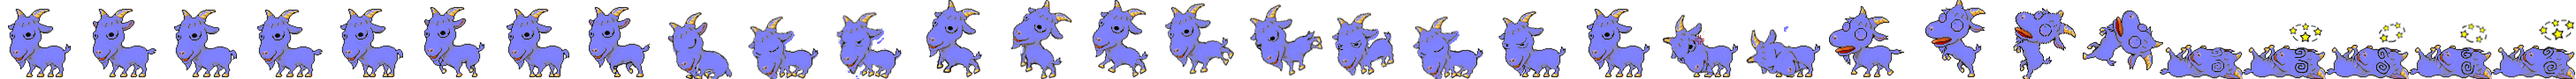
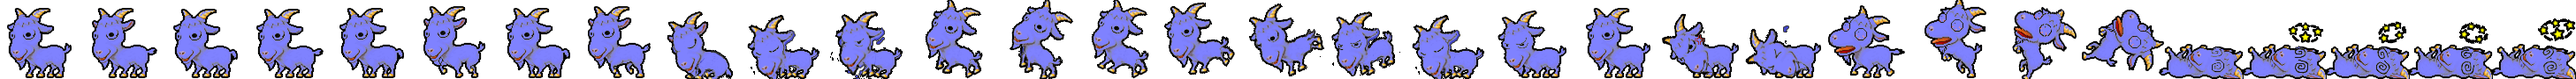
Added outline to red and blue goats to make them pop out more. Added a different animated crown.

diff --git a/js/goat.js b/js/goat.js
@@ -119,7 +119,7 @@ function Goat(game, playerNumber, controls, sprite) {
     this.leftStunnedAnimation = new Animation(leftAsset, 2538, 0, 94, 90, 0.1, 4, true, false);
     this.rightStunnedAnimation = new Animation(rightAsset, 2538, 0, 94, 90, 0.1, 4, true, false);
 
-    this.crownAnimation = new Animation(ASSET_MANAGER.getAsset("./img/smallest-king-crown.png"), 0, 0, 40, 32, 0.1, 1, true, false);
+    this.crownAnimation = new Animation(ASSET_MANAGER.getAsset("./img/simple-crown-animated.png"), 0, 0, 40, 40, 0.1, 10, true, false);
     this.chargingAnimation = new Animation(ASSET_MANAGER.getAsset("./img/auras.png"), -15, 125, 97, 100, 0.1, 7, true, false);
     this.attackAuraLeftAnimation = new Animation(ASSET_MANAGER.getAsset("./img/"+ this.sprite + "-attackAuraLeft.png"), 3, 0, 44, 150, .1, 4, true, false);
     this.attackAuraRightAnimation = new Animation(ASSET_MANAGER.getAsset("./img/"+ this.sprite + "-attackAuraRight.png"), 16, 0, 43, 150, .1, 4, true, true);
@@ -563,8 +563,8 @@ Goat.prototype.update = function () {
      *              Scoring                 *
      ****************************************/
     // Just to place a crown manually on top of player 1's goat.
-    // if (this.playerNumber === 0)
-    //     this.king = this.game.kKey;
+     if (this.playerNumber === 0)
+         this.king = this.game.kKey;
 
     // Increments goat's score count:
     if (this.entity && this.entity.isHill && !isMounted(this, this.game.goats)) {
@@ -594,15 +594,6 @@ Goat.prototype.update = function () {
 ;
 
 Goat.prototype.draw = function (ctx) {
-    // For drawing CROWN:
-    if (this.king) {
-        if (this.right) { // drawn crown above right-turned head
-            this.crownAnimation.drawFrame(this.game.clockTick, ctx, this.x + this.scale * 42, this.y - this.scale * 20, this.scale);
-        } else { // draw crown above left-turned head
-            this.crownAnimation.drawFrame(this.game.clockTick, ctx, this.x + this.scale * 13, this.y - this.scale * 20, this.scale);
-        }
-    }
-
 
     if (this.attacking) {
         if (this.right) {
@@ -655,6 +646,15 @@ Goat.prototype.draw = function (ctx) {
             this.chargingAnimation.drawFrame(this.game.clockTick, ctx, this.x - 1, this.y - 20, this.scale + .2);
         else
             this.chargingAnimation.drawFrame(this.game.clockTick, ctx, this.x - 12, this.y - 20, this.scale + .2);
+    }
+
+    // For drawing CROWN:
+    if (this.king) {
+        if (this.right) { // drawn crown above right-turned head
+            this.crownAnimation.drawFrame(this.game.clockTick, ctx, this.x + this.scale * 44, this.y - this.scale * 30, this.scale);
+        } else { // draw crown above left-turned head
+            this.crownAnimation.drawFrame(this.game.clockTick, ctx, this.x + this.scale * 13, this.y - this.scale * 30, this.scale);
+        }
     }
     
     ctx.strokeStyle = "rgb(255, 0, 0)";

diff --git a/js/main.js b/js/main.js
@@ -20,6 +20,7 @@ ASSET_MANAGER.queueDownload("./img/red-goat-left.png");
 ASSET_MANAGER.queueDownload("./img/red-goat-right.png");
 ASSET_MANAGER.queueDownload("./img/transparent_pixel.png");
 ASSET_MANAGER.queueDownload("./img/smallest-king-crown.png");
+ASSET_MANAGER.queueDownload("./img/simple-crown-animated.png");
 ASSET_MANAGER.queueDownload("./img/auras.png");
 ASSET_MANAGER.queueDownload("./img/blue-goat-attackAuraLeft.png");
 ASSET_MANAGER.queueDownload("./img/blue-goat-attackAuraRight.png");
